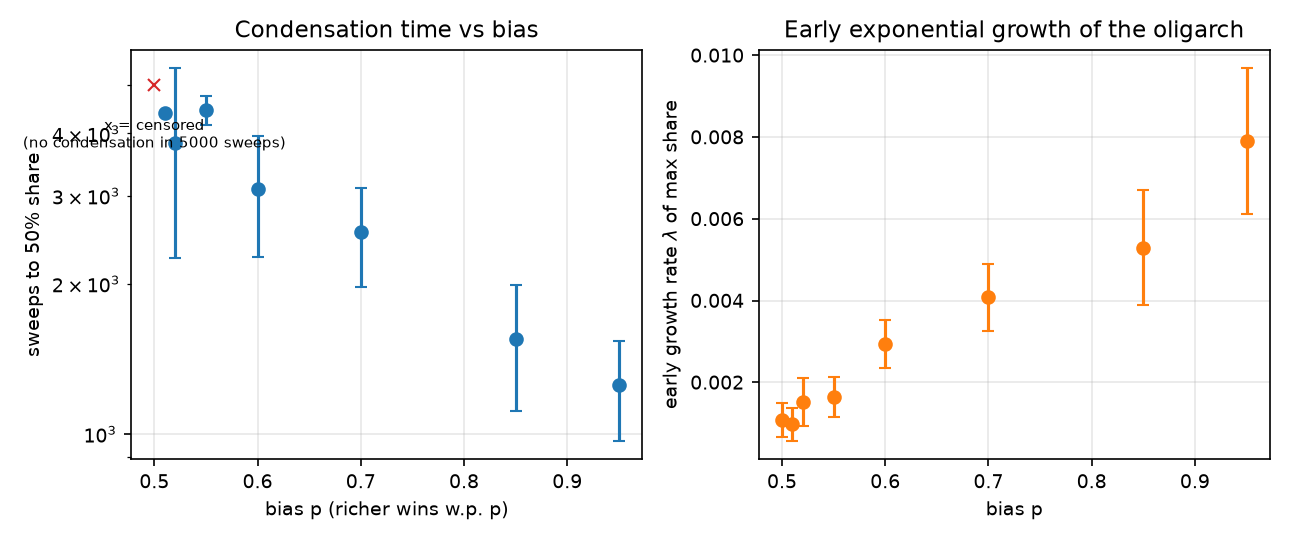
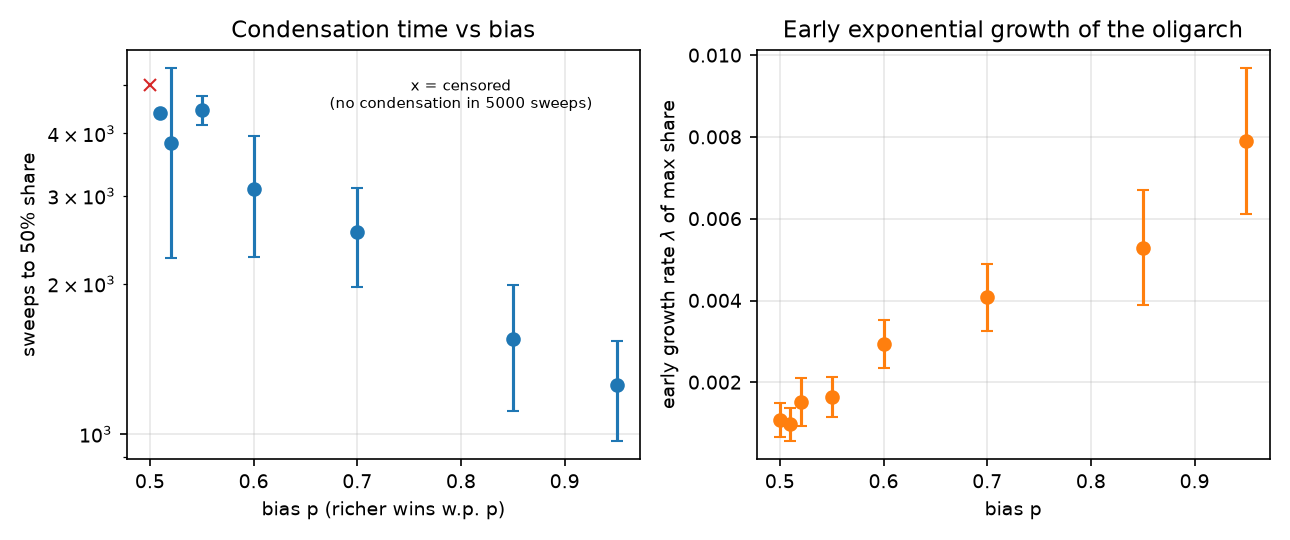
fix: remove log scale as that causes artifacts

diff --git a/investigations/idea1-yardsale/prototype/run_experiments.py b/investigations/idea1-yardsale/prototype/run_experiments.py
@@ -183,7 +183,7 @@ def expt_p_scan(quick=False):
             axes[1].errorbar(p, lam.mean(), yerr=lam.std(), fmt="o", capsize=3, color="C1")
     axes[1].set(xlabel="bias p", ylabel="early growth rate $\\lambda$ of max share",
                 title="Early exponential growth of the oligarch")
-    axes[0].annotate("x = censored\n(no condensation in 5000 sweeps)", xy=(0.5, sweeps * 0.75),
+    axes[0].annotate("x = censored\n(no condensation in 5000 sweeps)", xy=(0.8, sweeps * 0.9),
                      fontsize=7, ha="center")
     fig.tight_layout()
     fig.savefig(os.path.join(FIGURES, "fig2_bias_scan.png"))
@@ -509,7 +509,7 @@ def main():
         bad = [c for c in checks if not c[1]]
         sys.exit(1 if bad else 0)
 
-    names = args.only or list(EXPTS)
+    names = ["p_scan"]
     t_start = time.perf_counter()
     for name in names:
         t0 = time.perf_counter()

diff --git a/investigations/idea1-yardsale/prototype/extra_mechanisms.py b/investigations/idea1-yardsale/prototype/extra_mechanisms.py
@@ -127,10 +127,10 @@ def rewiring_mechanism(sweeps=1500, seeds=4, rs=(0.0, 0.05, 0.2)):
     for ax, key, title in zip(axes, keys, titles):
         stat = df.groupby("r")[key].agg(["mean", "std"])
         ax.errorbar(stat.index, stat["mean"], yerr=stat["std"], fmt="o-", capsize=3)
-        ax.set(xlabel="rewiring rate r", ylabel=title, xscale="symlog")
+        ax.set(xlabel="rewiring rate r", ylabel=title)
     axes[2].axhline(df.mean_degree.mean(), color="k", ls="--", lw=0.8, label="mean degree")
     axes[2].legend(fontsize=8)
-    fig.suptitle("Rewiring does not create hubs - it multiplies trading partners")
+    fig.suptitle("Rewiring multiplies trading partners")
     fig.tight_layout(rect=(0.0, 0.0, 1.0, 0.94))
     fig.savefig(os.path.join(FIGURES, "fig11_rewiring_mechanism.png"))
     plt.close(fig)
